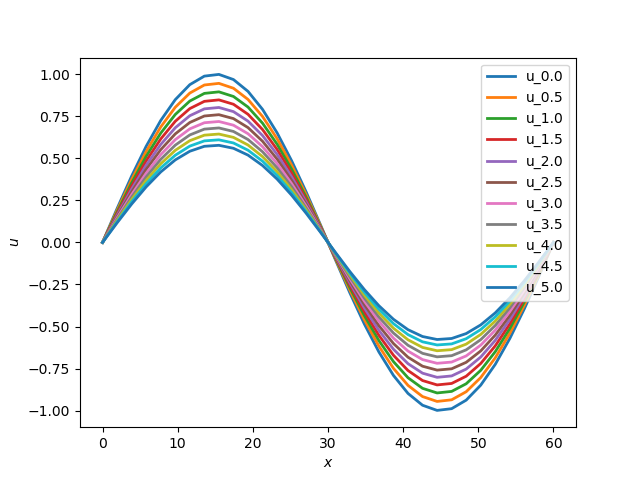
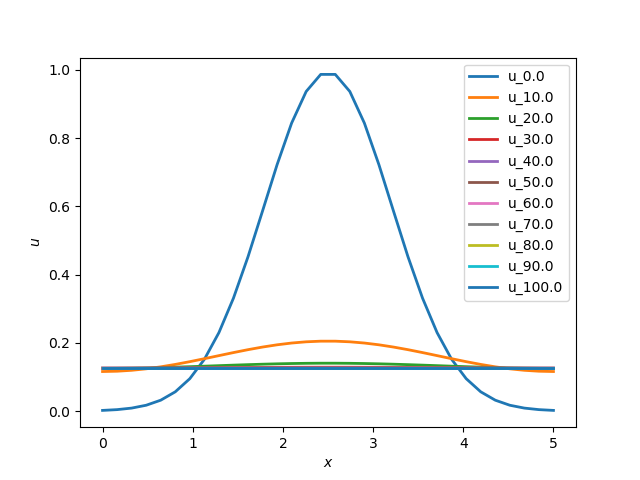
* tested heat for a Gaussian. As periodic BC => no heat loss => profile should flatten up to a nonzero constant

diff --git a/python_codes_aghor/2dSH23_fourier/heat_params.py b/python_codes_aghor/2dSH23_fourier/heat_params.py
@@ -8,7 +8,7 @@ from numpy import pi, cosh, exp, round, zeros, identity, arange, real, cos, sin,
 # define parameters
 # Grid and required matrices:
 # c stands for computational domain
-Lx = 9.0*pi; Ly = 9.0*pi;
+Lx = 5; Ly = 5;
 xc_min = 0.;
 xc_max = 2.0*pi;
 yc_min = 0.;
@@ -23,8 +23,8 @@ a2 = (yc_max - yc_min)*1.0/Ly;
 b2 = yc_min;
 
 
-nsave = 1000; # save after nsave timesteps
-Nt = 40000; # 100 #  # # of timesteps
+nsave = 100; # save after nsave timesteps
+Nt = 1000; # 40000; # # of timesteps
 
 nu = 2.2; # 1.6; # N(u) = nu u^2 - u^3
 mu = 0.5; # 0.31;
@@ -39,7 +39,7 @@ Nxc = Nx-1; Nyc = Ny - 1;
 dxc = (xc_max-xc_min)/(Nxc)
 dyc = (yc_max-yc_min)/(Nyc)
 
-dt = 0.01;
+dt = 0.1;
 
 xc = arange(xc_min, xc_max, dxc)
 yc = arange(yc_min, yc_max, dyc)

diff --git a/python_codes_aghor/2dSH23_fourier/test_2d_heat.py b/python_codes_aghor/2dSH23_fourier/test_2d_heat.py
@@ -9,8 +9,8 @@ import math
 from numpy.linalg import inv
 import h5py # for saving data
 
-import params
-from params import *
+import heat_params
+from heat_params import *
 
 ###########################################
 '''
@@ -37,8 +37,8 @@ the solution. All computations are performed on (Nyc x Nxc) grid.
 u0 = zeros((Nyc, Nxc))
 for i in range(0, Nyc):
     for j in range(0, Nxc):
-        u0[i, j] = sin(xc[j]);
-print "u(x, y) = sin(xc) \n"
+        u0[i, j] = exp( -(x[j] - Lx/2.0)**2 - (y[i] - Ly/2.0)**2) # sin(xc[j]/2);  
+# print "u(x, y) = sin(xc) \n"
 
 u1 = u0;
 

diff --git a/python_codes_aghor/2dSH23_fourier/test_post_process_heat.py b/python_codes_aghor/2dSH23_fourier/test_post_process_heat.py
@@ -5,8 +5,8 @@ import matplotlib
 matplotlib.use('Agg')
 import matplotlib.pyplot as plt
 plt.ioff()
-import params
-from params import *
+import heat_params
+from heat_params import *
 #######################################
 """
 post-process AM2AB2 2dheat/2dSH data
